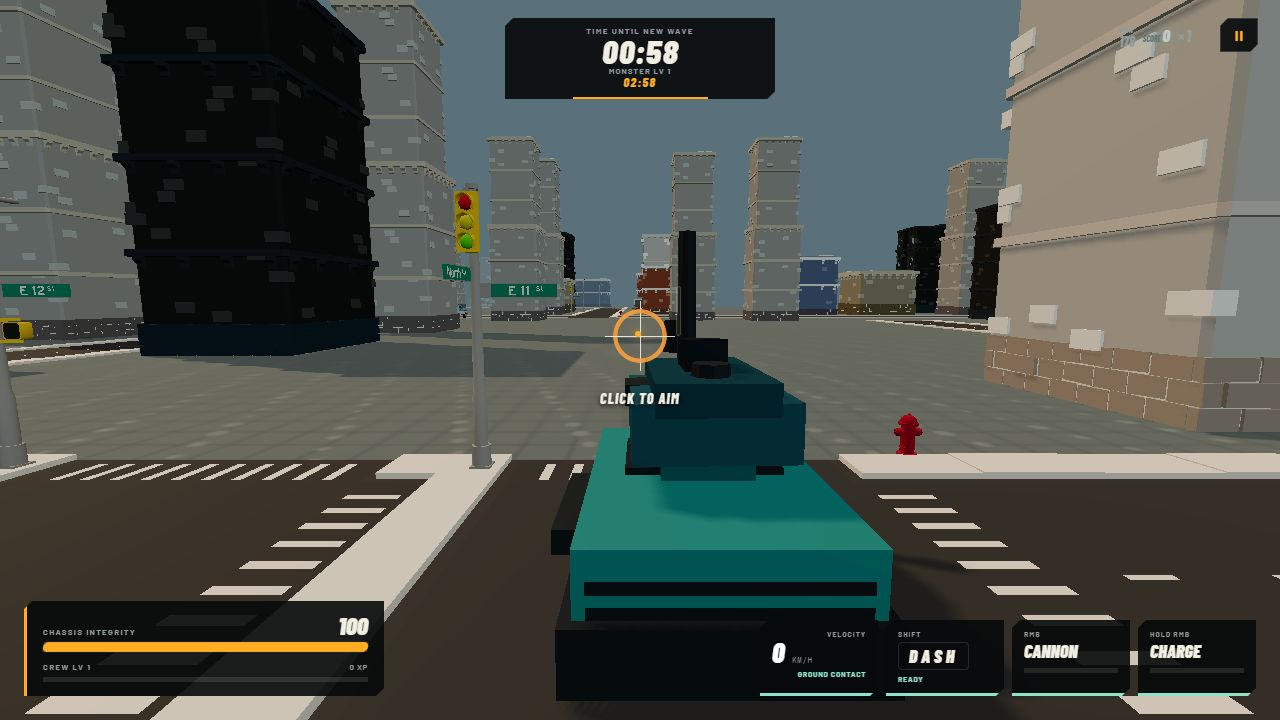
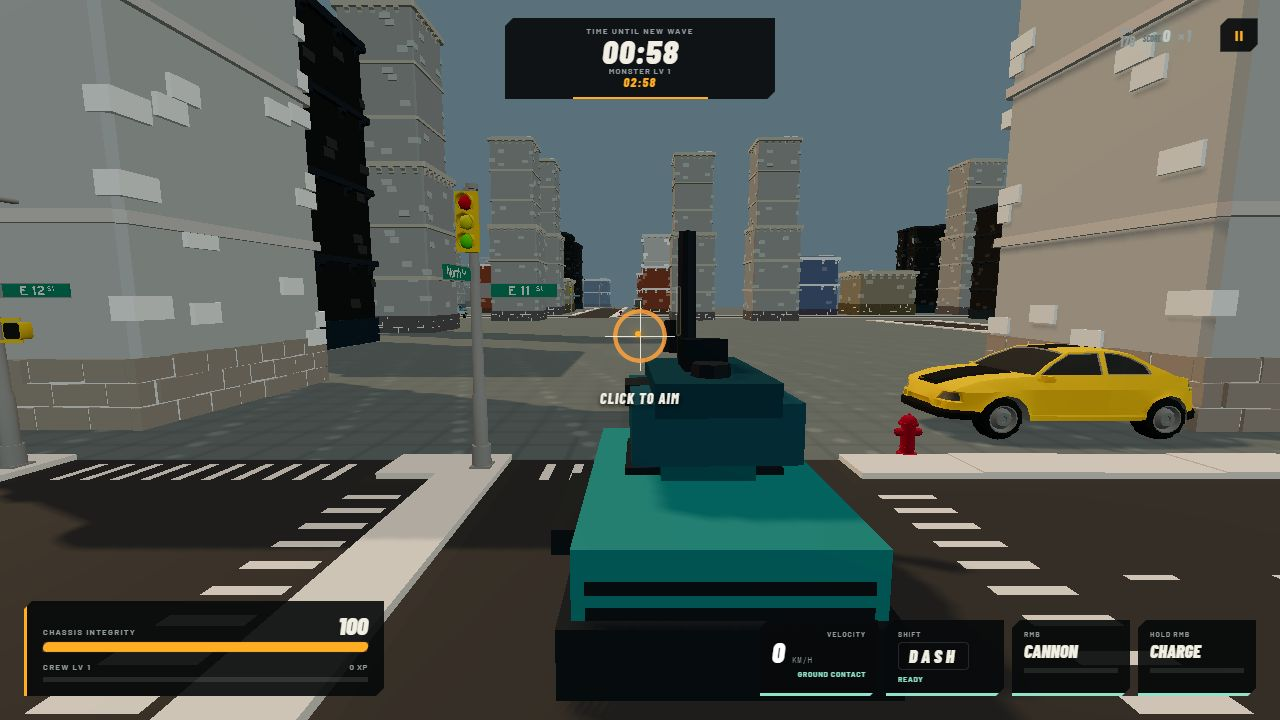
feat: increase urban city density

diff --git a/src/shared/mapgen/urbanLayout.ts b/src/shared/mapgen/urbanLayout.ts
@@ -72,7 +72,7 @@ const TILE = 8;
 const CITY_SPECS: Record<UrbanPrototypeId, CitySpec> = {
   urban200: {
     size: 200,
-    targetBuildings: 62,
+    targetBuildings: 76,
     targetVehicles: 12,
     paths: [
       [[-96, 8], [-64, 8], [-64, -16], [-16, -16], [-16, 16], [40, 16], [40, 48], [88, 48], [88, 96]],
@@ -96,7 +96,7 @@ const CITY_SPECS: Record<UrbanPrototypeId, CitySpec> = {
   },
   urban400: {
     size: 400,
-    targetBuildings: 210,
+    targetBuildings: 270,
     targetVehicles: 38,
     paths: [
       [[-192, 24], [-152, 24], [-152, -8], [-80, -8], [-80, 16], [-8, 16], [-8, -16], [72, -16], [72, 16], [136, 16], [136, 48], [192, 48]],
@@ -202,7 +202,7 @@ function placeBuildings(id: UrbanPrototypeId, spec: CitySpec, roads: readonly Ur
     if (spec.plazas.some((p) => Math.hypot(x - p.x, z - p.z) < p.radius + Math.max(w, d) / 2)) continue;
     if (spec.landmarks.some((p) => Math.hypot(x - p.x, z - p.z) < 12 + Math.max(w, d) / 2)) continue;
     if (spec.spawnPoints.some((p) => Math.hypot(x - p.x, z - p.z) < 12 + Math.max(w, d) / 2)) continue;
-    if (buildings.some((b) => boxesOverlap(x, z, w, d, b.x, b.z, b.w, b.d, 1.8))) continue;
+    if (buildings.some((b) => boxesOverlap(x, z, w, d, b.x, b.z, b.w, b.d, 0.9))) continue;
     buildings.push({
       id: `urban.building.${buildings.length}`,
       x,
@@ -217,7 +217,58 @@ function placeBuildings(id: UrbanPrototypeId, spec: CitySpec, roads: readonly Ur
       roofDriveable: true,
     });
   }
+  placeBlockInfill(spec, roads, buildings, rng);
   return buildings;
+}
+
+/**
+ * Fill selected block interiors after the street frontage pass. The road and
+ * plaza buffers keep recognizable public space, while the probability gate
+ * intentionally leaves some lots empty instead of paving the whole map.
+ */
+function placeBlockInfill(
+  spec: CitySpec,
+  roads: readonly UrbanVisualPlacement[],
+  buildings: Obstacle[],
+  rng: () => number,
+): void {
+  const half = spec.size / 2;
+  for (let attempt = 0; attempt < spec.targetBuildings * 80 && buildings.length < spec.targetBuildings; attempt++) {
+    if (rng() < 0.28) continue;
+    const x = snap((rng() * 2 - 1) * (half - 9), 2);
+    const z = snap((rng() * 2 - 1) * (half - 9), 2);
+    if (!roads.some((road) => Math.hypot(x - road.x, z - road.z) < 22)) continue;
+    const core = Math.hypot(x, z) < spec.size * 0.24;
+    const inner = Math.hypot(x, z) < spec.size * 0.38;
+    const pool = core ? [2, 3, 4, 4, 5, 5] : inner ? [0, 1, 2, 3, 4, 5] : [0, 0, 1, 1, 2, 3];
+    const model = BUILDING_MODELS[pool[Math.floor(rng() * pool.length)]];
+    const scale = model.scale * (0.88 + rng() * 0.26);
+    const yaw = rng() < 0.5 ? 0 : Math.PI / 2;
+    const rawW = model.nativeW * scale;
+    const rawD = model.nativeD * scale;
+    const w = yaw === 0 ? rawW : rawD;
+    const d = yaw === 0 ? rawD : rawW;
+    const h = model.nativeH * scale;
+    if (Math.abs(x) + w / 2 > half - 2 || Math.abs(z) + d / 2 > half - 2) continue;
+    if (overlapsRoad(x, z, w, d, roads, 1.1)) continue;
+    if (spec.plazas.some((p) => Math.hypot(x - p.x, z - p.z) < p.radius + Math.max(w, d) / 2)) continue;
+    if (spec.landmarks.some((p) => Math.hypot(x - p.x, z - p.z) < 12 + Math.max(w, d) / 2)) continue;
+    if (spec.spawnPoints.some((p) => Math.hypot(x - p.x, z - p.z) < 10 + Math.max(w, d) / 2)) continue;
+    if (buildings.some((b) => boxesOverlap(x, z, w, d, b.x, b.z, b.w, b.d, 1.1))) continue;
+    buildings.push({
+      id: `urban.building.${buildings.length}`,
+      x,
+      z,
+      w,
+      d,
+      h,
+      type: 'urbanBuilding',
+      assetId: model.assetId,
+      yaw,
+      modelScale: scale,
+      roofDriveable: true,
+    });
+  }
 }
 
 function placeVehicles(

diff --git a/tests/urbanCityMaps.test.ts b/tests/urbanCityMaps.test.ts
@@ -15,8 +15,8 @@ function roadDegree(cells: ReadonlySet<string>, x: number, z: number): number {
 }
 
 describe.each([
-  ['urban200', 30, 6],
-  ['urban400', 100, 20],
+  ['urban200', 70, 6],
+  ['urban400', 250, 20],
 ] as const)('%s authored city', (prototypeId, minimumBuildings, minimumVehicles) => {
   const layout = createUrbanLayout(prototypeId);
 

diff --git a/docs/quality/URBAN_CITY_MAPS.md b/docs/quality/URBAN_CITY_MAPS.md
@@ -13,7 +13,7 @@ These maps are isolated opt-in prototypes. They do not replace or modify the pro
 
 - Terrain is flat across both maps.
 - Streets follow a connected but deliberately irregular authored graph: bent arterials, unequal blocks, loops, short side streets, dead ends, parking areas, and open plazas replace the former uniform grid. Straight, cracked-straight, corner, T-junction, and four-way pieces are selected from actual cardinal neighbours, never scattered randomly.
-- Building placement is deterministic but non-uniform, with varied setbacks, orientation, footprints, and a skyline ranging from one to six stories. Taller buildings cluster loosely toward each city core while low-rise districts remain around the perimeter.
+- Building placement is deterministic but non-uniform, with varied setbacks, orientation, footprints, and a skyline ranging from one to six stories. Dense street frontage and selective block-interior infill reduce vacant lots, while probability-gated parcels, plazas, parking pockets, and landmark clearings preserve intentional open space. Taller buildings cluster loosely toward each city core while low-rise districts remain around the perimeter.
 - All buildings come exclusively from the Ultimate Textured Building Pack. Zombie Apocalypse Kit assets provide coherent roads plus non-character city dressing such as parked vehicles, traffic furniture, hydrants, trash, and water-tower landmarks, so building art is never mixed across packs.
 - Imported materials use their original source textures. Runtime rendering does not apply material overrides or tint.
 - Every building has an authoritative rectangular wall collider and flat authoritative roof surface. The prototypes intentionally have no rooftop ramps; taller roofs may be unreachable through ordinary driving.
